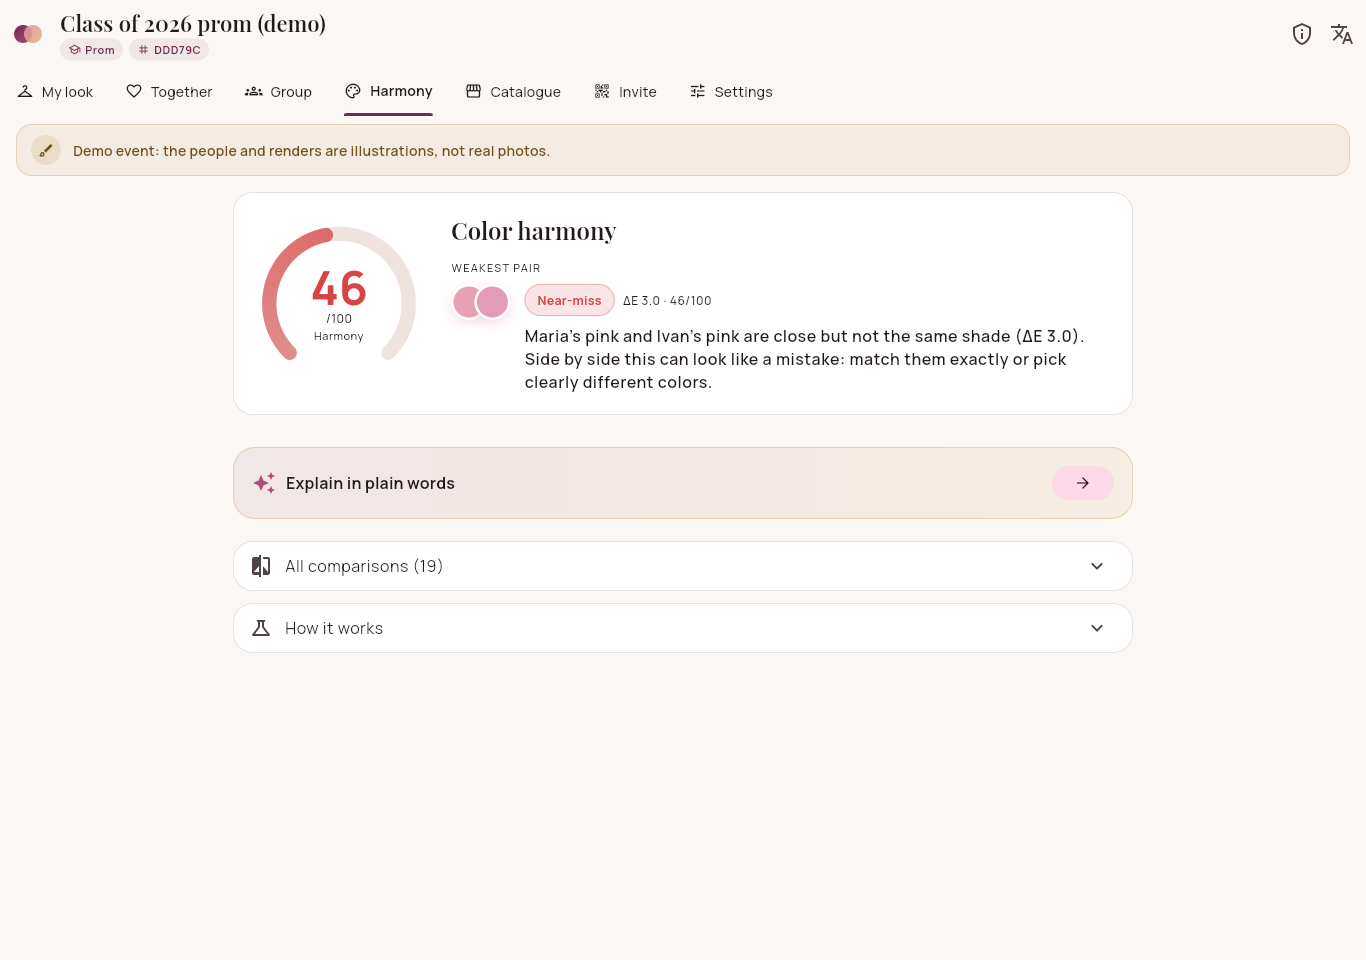
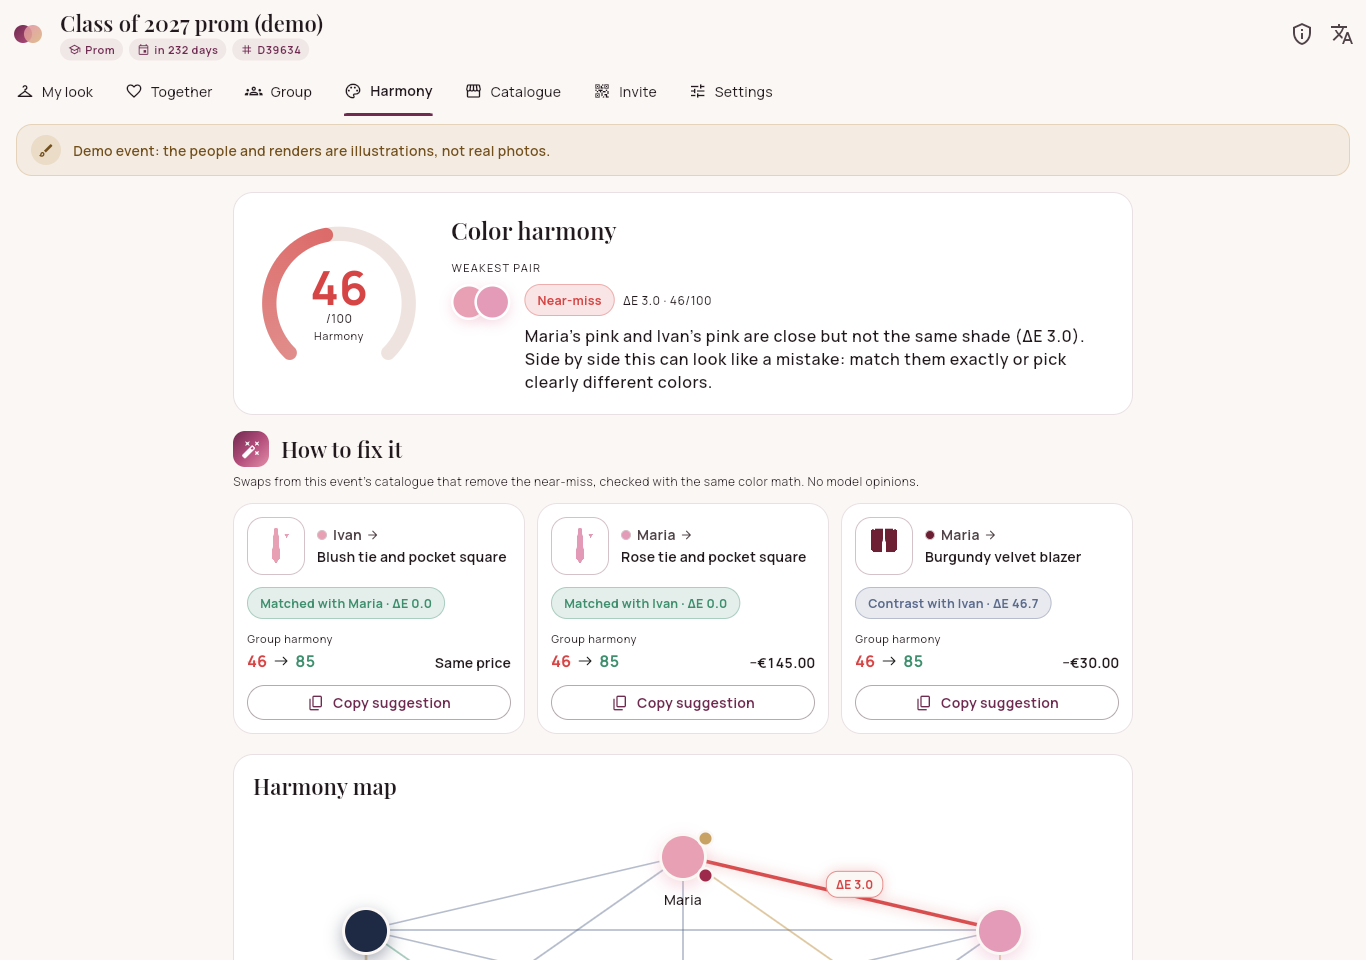
Open the theatre demo from the landing page; refresh the docs
- Landing: prom and theatre cast demos side by side.
- Together asks for fixes to the pair on screen.
- Stage backdrop keeps the title below the valance; the try-on button
  shimmers while a changed look waits for its preview.
- README: new screenshots (fix suggestions, group photos, harmony map,
  budget and readiness, invite) and the demo video shot list.

diff --git a/app/lib/features/landing/landing_screen.dart b/app/lib/features/landing/landing_screen.dart
@@ -22,7 +22,7 @@ class LandingScreen extends StatefulWidget {
 
 class _LandingScreenState extends State<LandingScreen> {
   Future<List<EventInfo>>? _events;
-  bool _openingDemo = false;
+  EventTemplate? _openingDemo;
 
   @override
   void didChangeDependencies() {
@@ -30,14 +30,14 @@ class _LandingScreenState extends State<LandingScreen> {
     _events ??= AppScope.api(context).myEvents();
   }
 
-  Future<void> _openDemo() async {
-    setState(() => _openingDemo = true);
+  Future<void> _openDemo(EventTemplate template) async {
+    setState(() => _openingDemo = template);
     final event = await runWithFeedback(
       context,
-      () => AppScope.api(context).createDemo(),
+      () => AppScope.api(context).createDemo(template: template),
     );
     if (!mounted) return;
-    setState(() => _openingDemo = false);
+    setState(() => _openingDemo = null);
     if (event != null) context.go('/e/${event.id}');
   }
 
@@ -115,8 +115,10 @@ class _Hero extends StatelessWidget {
   });
 
   final bool wide;
-  final bool openingDemo;
-  final VoidCallback onOpenDemo;
+
+  /// The demo being opened, if any.
+  final EventTemplate? openingDemo;
+  final ValueChanged<EventTemplate> onOpenDemo;
 
   @override
   Widget build(BuildContext context) {
@@ -220,16 +222,35 @@ class _Hero extends StatelessWidget {
           child: Column(
             crossAxisAlignment: align,
             children: [
-              TextButton.icon(
-                onPressed: openingDemo ? null : onOpenDemo,
-                icon: openingDemo
-                    ? const SizedBox(
-                        width: 18,
-                        height: 18,
-                        child: CircularProgressIndicator(strokeWidth: 2),
-                      )
-                    : const Icon(Icons.auto_awesome_outlined),
-                label: Text(l10n.openDemo),
+              Wrap(
+                alignment: wide ? WrapAlignment.start : WrapAlignment.center,
+                children: [
+                  for (final (template, icon, label) in [
+                    (
+                      EventTemplate.prom,
+                      Icons.auto_awesome_outlined,
+                      l10n.openDemo,
+                    ),
+                    (
+                      EventTemplate.theatre,
+                      Icons.theater_comedy_outlined,
+                      l10n.openTheatreDemo,
+                    ),
+                  ])
+                    TextButton.icon(
+                      onPressed: openingDemo != null
+                          ? null
+                          : () => onOpenDemo(template),
+                      icon: openingDemo == template
+                          ? const SizedBox(
+                              width: 18,
+                              height: 18,
+                              child: CircularProgressIndicator(strokeWidth: 2),
+                            )
+                          : Icon(icon),
+                      label: Text(label),
+                    ),
+                ],
               ),
               Padding(
                 padding: const EdgeInsets.symmetric(horizontal: 12),

diff --git a/app/lib/l10n/app_localizations_bg.dart b/app/lib/l10n/app_localizations_bg.dart
@@ -25,10 +25,11 @@ class AppLocalizationsBg extends AppLocalizations {
   String get joinWithCode => 'Влез с код';
 
   @override
-  String get openDemo => 'Отвори демо събитието';
+  String get openDemo => 'Демо бал';
 
   @override
-  String get demoHint => 'Примерен бал с илюстрирани хора. Не са нужни снимки.';
+  String get demoHint =>
+      'Готови събития с илюстрирани хора: бал и училищна пиеса. Не са нужни снимки.';
 
   @override
   String get yourEvents => 'Твоите събития';
@@ -1073,12 +1074,12 @@ class AppLocalizationsBg extends AppLocalizations {
 
   @override
   String fixShareText(Object item, Object name, Object other, Object relation) {
-    return '$name, пробвай $item: до $other се получава „$relation“, а не почти еднакви цветове.';
+    return '$name, пробвай $item: до $other резултатът е „$relation“, а не почти еднакви цветове.';
   }
 
   @override
   String fixShareTextSelf(Object item, Object name, Object relation) {
-    return '$name, пробвай $item: с тоалета се получава „$relation“, а не почти еднакви цветове.';
+    return '$name, пробвай $item: с тоалета резултатът е „$relation“, а не почти еднакви цветове.';
   }
 
   @override
@@ -1268,7 +1269,7 @@ class AppLocalizationsBg extends AppLocalizations {
 
   @override
   String fixShareTextMe(Object item, Object name, Object relation) {
-    return '$name, пробвай $item: до мен се получава „$relation“, а не почти еднакви цветове.';
+    return '$name, пробвай $item: до мен резултатът е „$relation“, а не почти еднакви цветове.';
   }
 
   @override
@@ -1287,4 +1288,7 @@ class AppLocalizationsBg extends AppLocalizations {
   String frameSemantics(Object event, Object names) {
     return 'Групова снимка на $event: $names.';
   }
+
+  @override
+  String get openTheatreDemo => 'Демо с театрална трупа';
 }

diff --git a/app/lib/api/api_client.dart b/app/lib/api/api_client.dart
@@ -104,8 +104,17 @@ class ApiClient {
     ),
   );
 
-  Future<EventInfo> createDemo() async =>
-      EventInfo.fromJson(await _send('POST', 'demo'));
+  /// The visitor's demo event of this kind (a prom or a theatre cast), created once.
+  Future<EventInfo> createDemo({
+    EventTemplate template = EventTemplate.prom,
+  }) async => EventInfo.fromJson(
+    await _send(
+      'POST',
+      template == EventTemplate.prom
+          ? 'demo'
+          : 'demo?template=${template.name}',
+    ),
+  );
 
   Future<EventInfo> event(String eventId) async =>
       EventInfo.fromJson(await _send('GET', 'events/$eventId'));
@@ -264,14 +273,15 @@ class ApiClient {
   Future<FixSuggestions> suggestions(
     String eventId, {
     String? user,
-  }) async => FixSuggestions.fromJson(
-    await _send(
-      'GET',
-      user == null
-          ? 'events/$eventId/harmony/suggestions'
-          : 'events/$eventId/harmony/suggestions?user=${Uri.encodeQueryComponent(user)}',
-    ),
-  );
+    String? withUser,
+  }) async {
+    final query = {'user': ?user, 'with': ?withUser};
+    final path = Uri(
+      path: 'events/$eventId/harmony/suggestions',
+      queryParameters: query.isEmpty ? null : query,
+    ).toString();
+    return FixSuggestions.fromJson(await _send('GET', path));
+  }
 
   Future<String> explainHarmony(String eventId, String language) async =>
       ((await _send(

diff --git a/app/lib/ui/group_frame.dart b/app/lib/ui/group_frame.dart
@@ -75,6 +75,8 @@ class GroupFrame extends StatelessWidget {
         final pad = unit * (portrait ? 5 : 3.2);
         final titleHeight = unit * (portrait ? 23 : 9);
         final footerHeight = unit * (portrait ? 12 : 6.5);
+        // The stage's valance hangs over the top edge; start below it.
+        final top = pad + (backdrop == FrameBackdrop.stage ? height * 0.09 : 0);
 
         final l10n = AppLocalizations.of(context);
         return Semantics(
@@ -94,7 +96,7 @@ class GroupFrame extends StatelessWidget {
                   Positioned(
                     left: pad,
                     right: pad,
-                    top: pad,
+                    top: top,
                     child: _TitleBlock(
                       board: board,
                       ink: ink,
@@ -105,7 +107,7 @@ class GroupFrame extends StatelessWidget {
                   Positioned(
                     left: pad,
                     right: pad,
-                    top: pad + titleHeight,
+                    top: top + titleHeight,
                     bottom: pad + footerHeight,
                     child: people.isEmpty
                         ? Center(

diff --git a/app/lib/widgets/fix_suggestions.dart b/app/lib/widgets/fix_suggestions.dart
@@ -25,6 +25,7 @@ class FixSuggestionsPanel extends StatefulWidget {
     required this.currency,
     required this.onChanged,
     this.user,
+    this.withUser,
     this.myUserId,
   });
 
@@ -39,6 +40,9 @@ class FixSuggestionsPanel extends StatefulWidget {
 
   /// Ask for the weakest near-miss involving this person instead of the group's.
   final String? user;
+
+  /// With [user]: the near-miss between these two people.
+  final String? withUser;
 
   /// The viewer, who can switch their own look from a card.
   final String? myUserId;
@@ -68,8 +72,9 @@ class _FixSuggestionsPanelState extends State<FixSuggestionsPanel> {
     }
   }
 
-  Future<FixSuggestions> _load() =>
-      AppScope.api(context).suggestions(widget.eventId, user: widget.user);
+  Future<FixSuggestions> _load() => AppScope.api(
+    context,
+  ).suggestions(widget.eventId, user: widget.user, withUser: widget.withUser);
 
   Future<void> _apply(FixSuggestion s) async {
     final l10n = AppLocalizations.of(context);

diff --git a/app/lib/l10n/app_localizations.dart b/app/lib/l10n/app_localizations.dart
@@ -131,13 +131,13 @@ abstract class AppLocalizations {
   /// No description provided for @openDemo.
   ///
   /// In en, this message translates to:
-  /// **'Open the demo event'**
+  /// **'Prom demo'**
   String get openDemo;
 
   /// No description provided for @demoHint.
   ///
   /// In en, this message translates to:
-  /// **'A seeded prom with illustrated people. No photos needed.'**
+  /// **'Ready-made events with illustrated people: a prom and a school play. No photos needed.'**
   String get demoHint;
 
   /// No description provided for @yourEvents.
@@ -2250,6 +2250,12 @@ abstract class AppLocalizations {
   /// In en, this message translates to:
   /// **'Group photo of {event}: {names}.'**
   String frameSemantics(Object event, Object names);
+
+  /// No description provided for @openTheatreDemo.
+  ///
+  /// In en, this message translates to:
+  /// **'Theatre cast demo'**
+  String get openTheatreDemo;
 }
 
 class _AppLocalizationsDelegate

diff --git a/app/lib/l10n/app_localizations_en.dart b/app/lib/l10n/app_localizations_en.dart
@@ -25,11 +25,11 @@ class AppLocalizationsEn extends AppLocalizations {
   String get joinWithCode => 'Join with a code';
 
   @override
-  String get openDemo => 'Open the demo event';
+  String get openDemo => 'Prom demo';
 
   @override
   String get demoHint =>
-      'A seeded prom with illustrated people. No photos needed.';
+      'Ready-made events with illustrated people: a prom and a school play. No photos needed.';
 
   @override
   String get yourEvents => 'Your events';
@@ -1279,4 +1279,7 @@ class AppLocalizationsEn extends AppLocalizations {
   String frameSemantics(Object event, Object names) {
     return 'Group photo of $event: $names.';
   }
+
+  @override
+  String get openTheatreDemo => 'Theatre cast demo';
 }

diff --git a/app/test/app_test.dart b/app/test/app_test.dart
@@ -50,7 +50,8 @@ void main() {
       expect(find.text('Try it on together.'), findsOneWidget);
       expect(find.text('Organize an event'), findsOneWidget);
       expect(find.text('Join with a code'), findsOneWidget);
-      expect(find.text('Open the demo event'), findsOneWidget);
+      expect(find.text('Prom demo'), findsOneWidget);
+      expect(find.text('Theatre cast demo'), findsOneWidget);
       expect(find.text('Try-on: simulated (mock mode)'), findsOneWidget);
     },
   );

diff --git a/app/lib/features/event/my_look_tab.dart b/app/lib/features/event/my_look_tab.dart
@@ -294,6 +294,8 @@ class _MyLookTabState extends State<MyLookTab> {
         BrandButton(
           label: l10n.tryOnButton,
           icon: Icons.auto_fix_high,
+          // A light sweep now and then while a changed look waits for its preview.
+          attention: true,
           onPressed: render.status == 'idle' && !_busy
               ? () => _apply(() => AppScope.api(context).render(_eventId))
               : null,

diff --git a/app/lib/features/event/together_tab.dart b/app/lib/features/event/together_tab.dart
@@ -220,6 +220,7 @@ class _TogetherTabState extends State<TogetherTab> with BoardLoader {
                       eventId: widget.event.id,
                       target: pairFinding,
                       user: me.userId,
+                      withUser: partner.userId,
                       myUserId: me.userId,
                       currency: data.budget.currency,
                       onChanged: loadBoard,

diff --git a/README.md b/README.md
@@ -11,6 +11,7 @@ Built for the *YouCam API Skin AI & eCommerce VTO Hackathon*.
 - Web app: see [Deploy](docs/deploy.md) (GitHub Pages)
 - Android: APK on the Releases page
 - Runs fully offline in mock mode: no accounts or API keys needed ([Run locally](#run-locally))
+- Two ready-made demo events with illustrated people: a prom and a school theatre cast
 
 ## Problem
 
@@ -36,19 +37,35 @@ The group board shows everyone side by side ("7 of 8 rendered"), per-person and 
 
 English and Bulgarian throughout.
 
-![Group board of the demo prom: everyone side by side, budget, and a near-miss warning between two partners](docs/screenshots/board.png)
+![Group board of the demo prom: everyone side by side, budget, a near-miss warning between two partners and the way into the group photo](docs/screenshots/board.png)
+
+**How to fix it**: a participant in a near-miss with their partner gets swaps from the catalogue, each with what it would change.
+
+![Near-miss between two pinks with three suggested swaps, the group score before and after, and the price change](docs/screenshots/fix.png)
+
+**Group photo**: everyone's current look in one frame, ready to save or share.
+
+![Group photo of the demo prom on a ballroom backdrop: six illustrated people, partners side by side, harmony score and the group's palette](docs/screenshots/group-photo.jpg)
+
+**Same engine, another event**: the theatre cast demo finds two nearly matching teal doublets, and Mercutio is played from a wheelchair.
+
+![Group photo of the theatre cast demo on a stage backdrop with red curtains](docs/screenshots/theatre-photo.jpg)
 
 | My look: before/after slider | Together | Hairdresser link | Bulgarian |
 | --- | --- | --- | --- |
 | ![Look builder with a before/after slider over a simulated try-on](docs/screenshots/my-look-phone.png) | ![Two partners side by side with their color relation](docs/screenshots/together-phone.png) | ![Read-only vendor page with the chosen hair color and the before photo](docs/screenshots/vendor-hair-phone.png) | ![Landing page in Bulgarian](docs/screenshots/landing-bg.jpg) |
 
-| Harmony report | Catalogue with extracted colors | Dark mode |
+| Harmony report | Harmony map | Budget and readiness |
 | --- | --- | --- |
-| ![Animated harmony gauge and the weakest pair explained](docs/screenshots/harmony.png) | ![Catalogue cards with a strip of the extracted garment colors](docs/screenshots/catalogue.png) | ![Landing page in dark mode](docs/screenshots/landing-dark.jpg) |
+| ![Animated harmony gauge, the weakest pair explained and fix suggestions](docs/screenshots/harmony.png) | ![The group as a ring of outfit colors with one line per pair; the near-miss glows red](docs/screenshots/harmony-map.png) | ![Spending by outfits, lip and hair colors, each person against the cap, and who is ready](docs/screenshots/budget.png) |
 
-Screenshots come from the built-in demo event: the people are illustrations, not photos, and its renders are labeled as demo data.
+| Catalogue with extracted colors | Invite with QR code | Dark mode |
+| --- | --- | --- |
+| ![Catalogue cards with a strip of the extracted garment colors](docs/screenshots/catalogue.png) | ![Invite page with the event code, link and QR code](docs/screenshots/invite.png) | ![Landing page in dark mode](docs/screenshots/landing-dark.jpg) |
 
-The interface uses Playfair Display and Manrope (both with Cyrillic), a plum, rose and champagne palette with light and dark themes, and motion throughout: a drifting aurora backdrop, staggered reveals, a before/after wipe on each try-on, a scanning beam while a render runs, an animated harmony gauge, and sparkles when a look is locked. All motion switches off when the system asks for reduced motion.
+Screenshots come from the built-in demo events: the people are illustrations, not photos, and their renders are labeled as demo data.
+
+The interface uses Playfair Display and Manrope (both with Cyrillic), a plum, rose and champagne palette with light and dark themes, and motion throughout: a drifting aurora backdrop, staggered reveals, a before/after wipe on each try-on, a scanning beam while a render runs, an animated harmony gauge and harmony map, a 3D tilt and cursor spotlight on cards, a pulsing glow on a near-miss, a celebration when the last clash is fixed, and sparkles when a look is locked. All motion switches off when the system asks for reduced motion.
 
 ## How YouCam is used
 

diff --git a/docs/demo-video.md b/docs/demo-video.md
@@ -1,0 +1,32 @@
+# Demo video plan (about 2.5 minutes)
+
+The order follows the submission brief: problem, a couple finds and fixes a clash, the group board with the budget, a seated participant, the vendor link, and the same engine on another event. Narration in English. No music, or royalty-free music only.
+
+Honesty rules for the recording:
+
+- The demo events are illustrations. Their banner ("Demo event: the people and renders are illustrations") stays visible; say it once out loud.
+- Show at least one **live** YouCam render of a consenting adult, and say that it is live. It costs about 2 units for an outfit, plus 1 each for a lip and a hair color.
+- Do not quote a number that has no source. Put a sourced figure where the script says *[figure]*, or drop the sentence.
+- The seated success rate is shown only after the inclusion evaluation has been run (`npm run kill-tests` in `api/`, then the inclusion page). Until then, show the page with "not measured yet".
+
+## Shots
+
+| Time | Screen | Action | Narration |
+| --- | --- | --- | --- |
+| 0:00 | Landing page | Let the headline and the harmony showcase play. | "Every virtual try-on is built for one person. But at a prom, a play or a wedding, what matters is how people look next to each other. *[figure on what Bulgarian families spend on the prom]*." |
+| 0:12 | Landing page | Click **Prom demo**. | "Wearmony is group try-on. This is a demo prom with illustrated people." |
+| 0:18 | Together tab | Partner: Maria. Your outfit: the rose tie. The near-miss card glows. | "I picked a rose tie. Next to Maria's blush dress it's a near-miss: ΔE 3, close but not the same. In photos that reads as a mistake." |
+| 0:32 | Together tab, How to fix it | Point at the cards, then **Switch to this** on the blush tie. The celebration appears. | "Wearmony tries every item in the event catalogue with the same color math and keeps only real fixes. The blush tie matches exactly, at the same price. One tap, and the clash is gone." |
+| 0:48 | My look tab | **Try it on** on a live event with a real photo. | "The preview is a live YouCam render: AI Clothes for the outfit, Makeup VTO for the lip color, AI Hair Color for the hair. Each step is cached, so the same photo and item never cost twice." |
+| 1:05 | Group tab | Scroll past the stats, the budget split and readiness. | "The organizer sees everyone: who has rendered, the weakest color pair, the budget per person and in total, and who still needs a photo or a lock." |
+| 1:20 | Group photo | Open it, switch backdrops, **Save image**. | "And the whole group in one frame, partners together, with the harmony score. The image keeps the label that says what is simulated." |
+| 1:35 | Group tab, Elena's card, then the Inclusion page | Point at the seated badge, then the results table. | "Try-on is usually tested on standing models. Elena is seated. We measure how well it works for seated photos and publish the numbers: *[measured rate, or 'not measured yet']*." |
+| 1:52 | Invite tab, then the vendor page | Create a hairdresser link, open it on a phone. | "A hairdresser gets a read-only link that expires: the chosen hair color and the before photo. No account." |
+| 2:05 | Landing, **Theatre cast demo**, then the group photo and harmony map | Stage backdrop; Romeo and Mercutio's teal line pulses. | "Same engine, another event: a school play. Two doublets in almost the same teal would look like a costume mistake on stage." |
+| 2:20 | Landing page | Language menu: English to Bulgarian. | "Wearmony works on the web and Android, in English and Bulgarian. Try it on together." |
+
+## Before recording
+
+1. Run the backend with `YOUCAM_MODE=live` for the live shot, or record that shot separately on the deployed app.
+2. Open the demos once before recording, so their images are cached and load instantly.
+3. Record the phone shots on an Android phone with the APK, or in Chrome device mode at 412 × 915.
